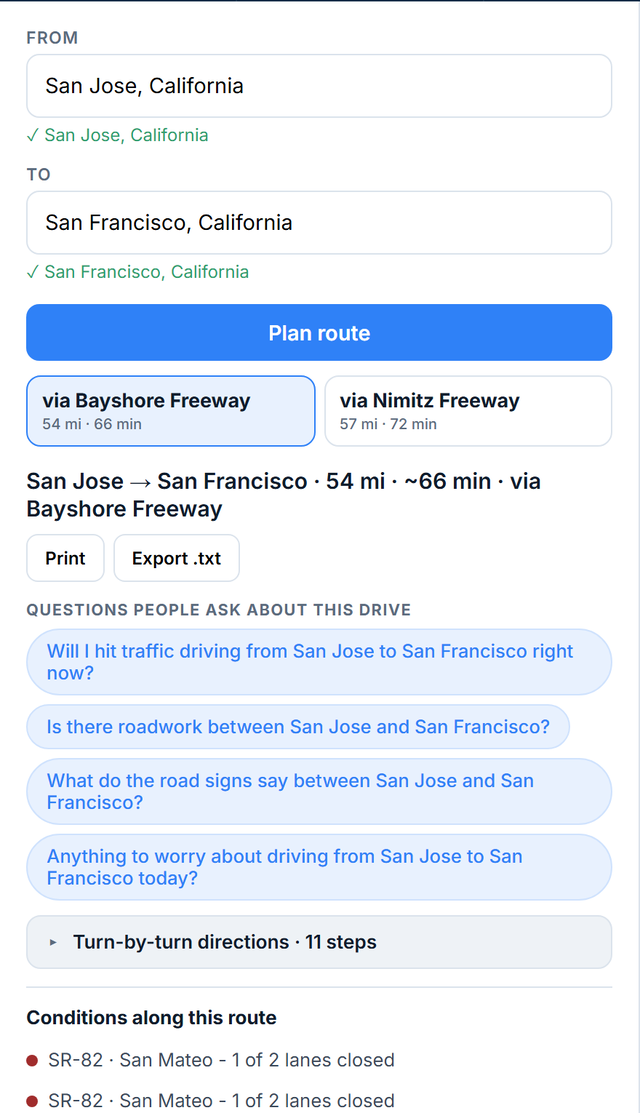
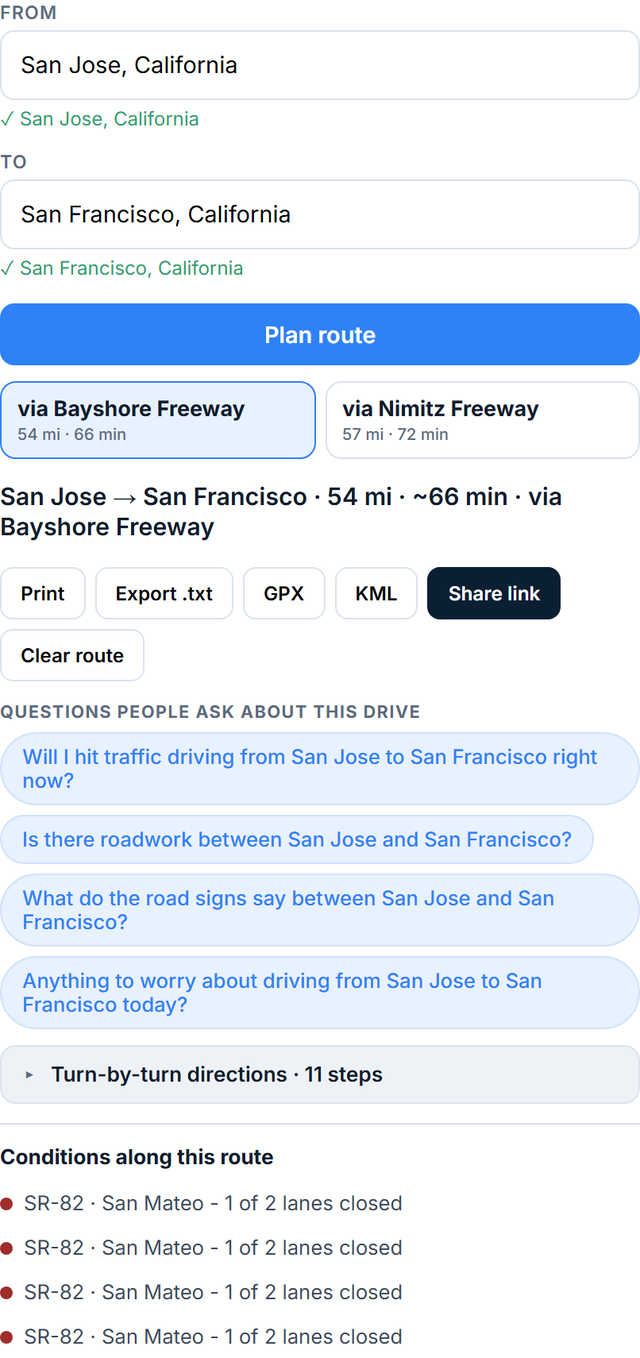
docs: refresh README imagery for CommuteScout rebrand
Regenerate demo.gif and the three docs/shots stills from the live
CommuteScout UI (San Jose -> San Francisco route, public landmarks
only); the old assets still showed the "CA Roads" wordmark. Also fix
the runtime SA display-name string in deploy.md.

Docs-only: no code change, no redeploy needed.

Claude-Session: https://claude.ai/code/session_014NGV84s2FAumRceH2fAxGm

diff --git a/docs/deploy.md b/docs/deploy.md
@@ -15,7 +15,7 @@ must not inherit project-wide Editor. The runtime SA holds only
 
 ```sh
 gcloud iam service-accounts create ca-roads-run \
-  --display-name "CA Roads Cloud Run runtime (least privilege)"
+  --display-name "CommuteScout Cloud Run runtime (least privilege)"
 SA=[email redacted]
 gcloud projects add-iam-policy-binding ca-roads-mcp \
   --member "serviceAccount:$SA" --role roles/datastore.user --condition=None